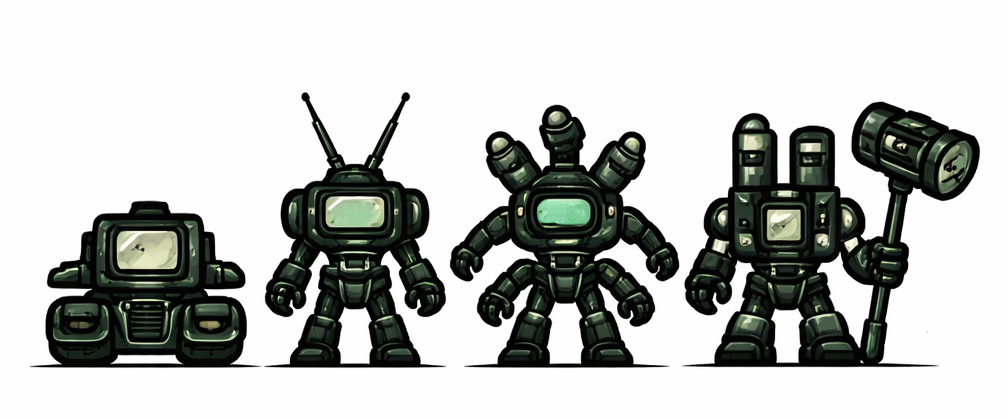
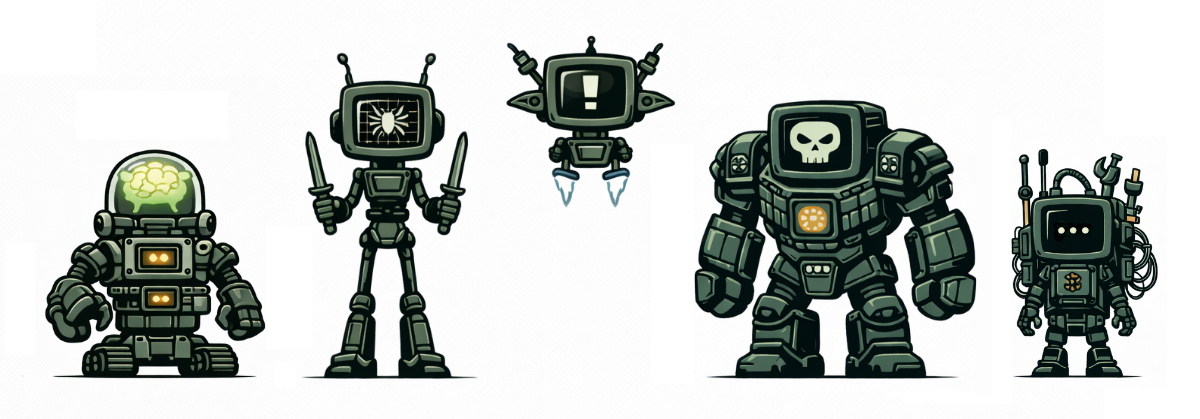
cover

diff --git a/src/app/features/docs/docs-print.scss b/src/app/features/docs/docs-print.scss
@@ -274,7 +274,7 @@
 
   img {
     height: 4.6cm;
-    opacity: 0.18;
+    opacity: 0.8;
     object-fit: contain;
   }
 }
